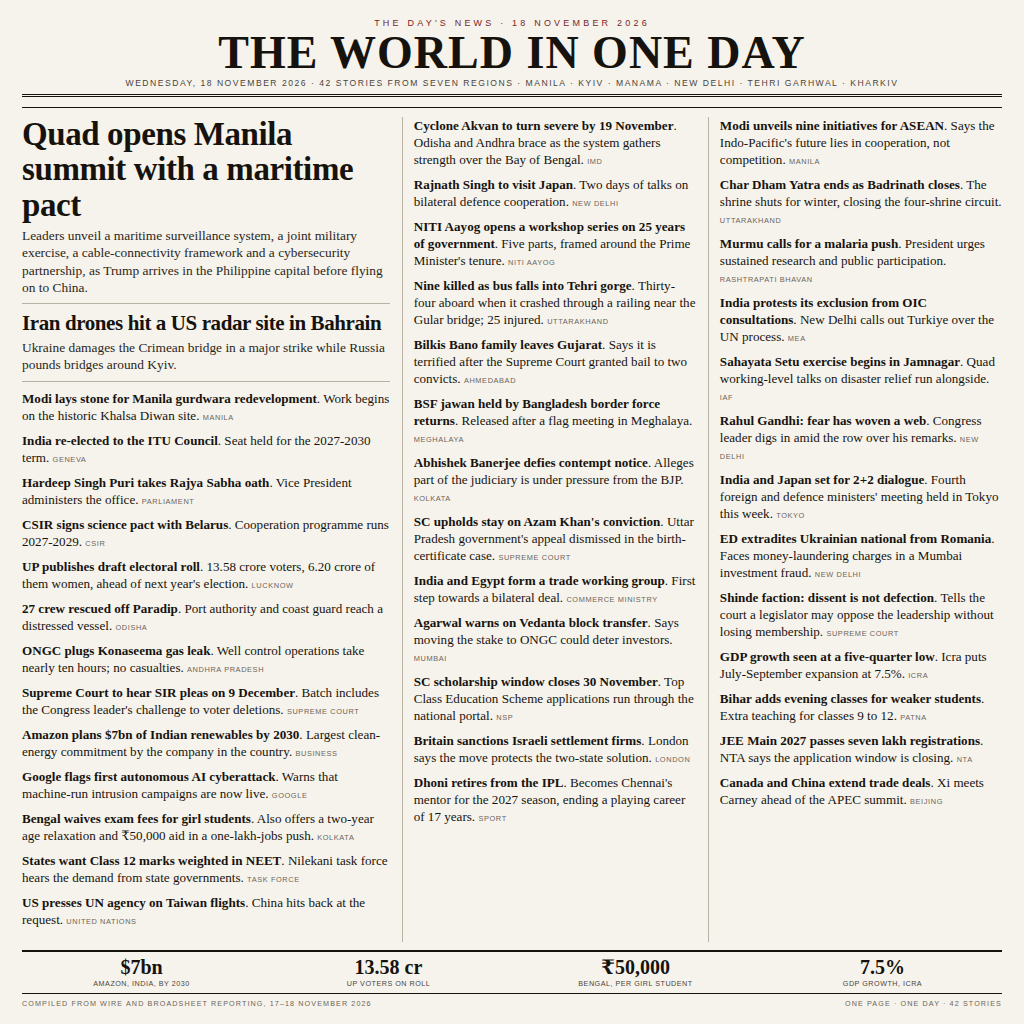
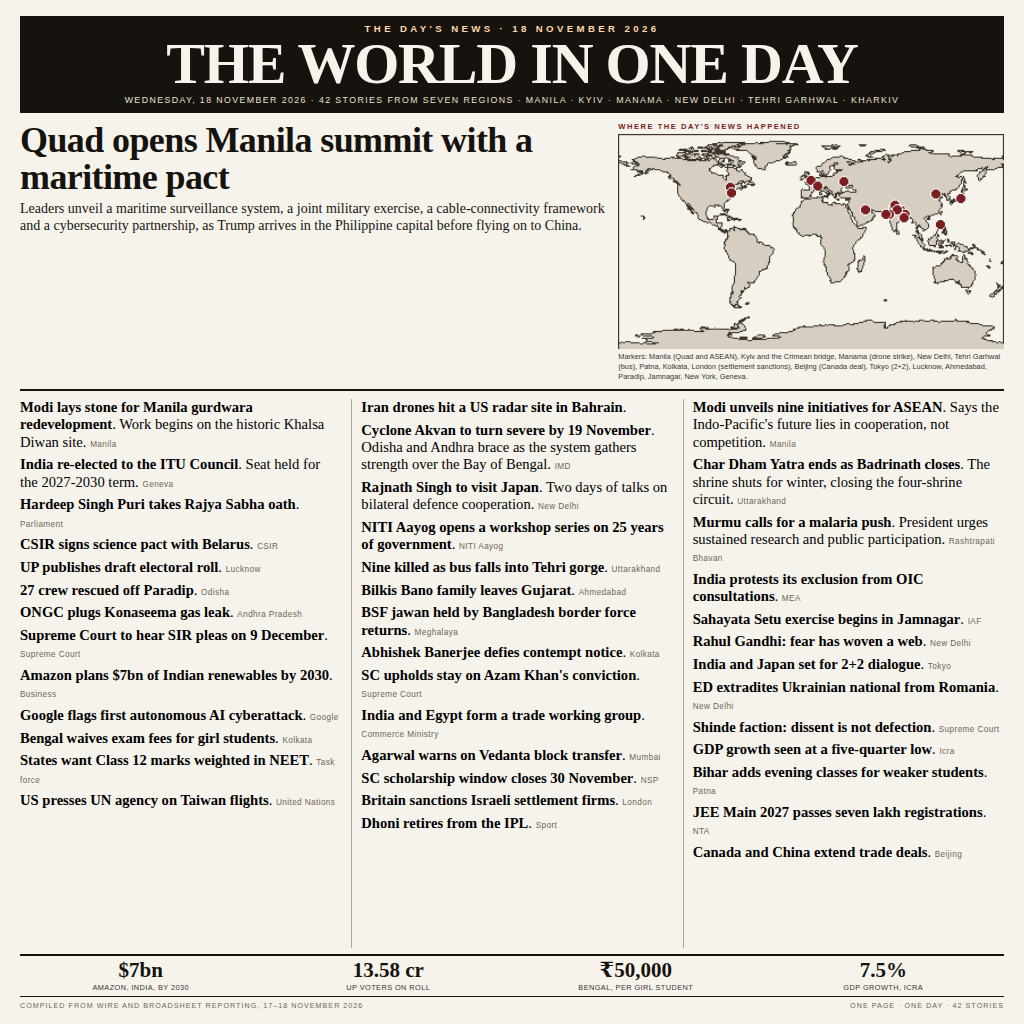
entry: heavier front page with a world map panel

diff --git a/README.md b/README.md
@@ -4,7 +4,7 @@
 [![rank](https://make.fun/badge/news-image-20261118/myvivlos/news-2026-11-18/rank.svg)](https://make.fun/bounty/news-image-20261118/leaderboard?utm_source=github&utm_medium=readme&utm_campaign=news-image-20261118)
 [![reward](https://make.fun/badge/news-image-20261118/myvivlos/news-2026-11-18/reward.svg)](https://make.fun/bounty/news-image-20261118?utm_source=github&utm_medium=readme&utm_campaign=news-image-20261118)
 
-A dense one-page newspaper front page headed "THE WORLD IN ONE DAY" for Wednesday 18 November 2026. It packs 42 stories from seven regions onto a single broadsheet, led by the Manila Quad summit.
+A heavy black-nameplate front page headed "THE WORLD IN ONE DAY" for Wednesday 18 November 2026, with 41 sourced headlines in three tight columns, a world map panel marking where each story happened, and a strip of four figures.
 
 ## Run it
 
